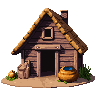
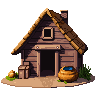
feat(pixelart): moulin (water_mills) en scène pixel-art + bâtiment de port réduit
- Moulin stade 0 : tour de pierre vue de PROFIL (sans porte) sur la berge et
  devant le liseré d'herbe + roue à aubes ANIMÉE (sprite tourné via ctx autour de
  son centroïde opaque → pas de wobble, sens réglé), moyeu centré sur la tour.
  Riverain comme le port : sprites transparents sur berge+fleuve naturels, ombre
  de contact exclue (water_mills), zéro procédural. Repli procédural conservé.
- Helpers blitPropRot + propPivot (centroïde de pixels opaques) dans cityEngineSprites.
- Port : bâtiment de quai réduit (~-22%), base ancrée → ponton/bateau inchangés.
- Nouveaux props mill-prop-house / mill-prop-wheel + provenance (fetchProps.mjs,
  astuce du prompt minimal pour éviter la porte que PixelLab rajoutait).

diff --git a/src/game/map/cityEngineSprites.js b/src/game/map/cityEngineSprites.js
@@ -134,7 +134,7 @@ function drawPixelForager(ctx, ox, oy, sw, sh, now, phase, hFrac) {
 // /pixelart/agents/ (cueilleur : -prop-tree/-basket ; entrepôt : granary-prop-silo/-sacks).
 const propImg = {};
 let propInit = false;
-const PROP_KEYS = ['forager-prop-tree', 'forager-prop-basket', 'granary-prop-silo', 'caravan-prop-sacks', 'market-prop-stall', 'guild-prop-lodge', 'field-prop-crop-green', 'field-prop-crop-gold', 'field-prop-fallow', 'port-prop-house', 'port-prop-pontoon'];
+const PROP_KEYS = ['forager-prop-tree', 'forager-prop-basket', 'granary-prop-silo', 'caravan-prop-sacks', 'market-prop-stall', 'guild-prop-lodge', 'field-prop-crop-green', 'field-prop-crop-gold', 'field-prop-fallow', 'port-prop-house', 'port-prop-pontoon', 'mill-prop-house', 'mill-prop-wheel'];
 function ensureProps() {
   if (propInit || typeof Image === 'undefined') return;
   propInit = true;
@@ -153,6 +153,43 @@ function blitProp(ctx, ox, oy, sw, sh, p, cx, cy, wFrac, hFrac) {
   const prev = ctx.imageSmoothingEnabled; ctx.imageSmoothingEnabled = false;
   ctx.drawImage(im, left, top, drawW, drawH);
   ctx.imageSmoothingEnabled = prev;
+}
+
+// Centre des pixels OPAQUES d'un prop (fraction 0..1 du sprite), calculé une fois et
+// mis en cache. Sert de PIVOT de rotation : une roue dont le moyeu n'est pas au centre
+// exact du PNG tournerait « de travers » (orbite) si on tournait autour du centre
+// géométrique — on tourne donc autour de ce centroïde (= le moyeu d'une roue symétrique).
+const propPivotCache = {};
+function propPivot(p) {
+  if (propPivotCache[p]) return propPivotCache[p];
+  const im = propImg[p];
+  if (!im || !(im.naturalWidth > 0) || typeof document === 'undefined') return { x: 0.5, y: 0.5 };
+  try {
+    const w = im.naturalWidth, h = im.naturalHeight;
+    const c = document.createElement('canvas'); c.width = w; c.height = h;
+    const g = c.getContext('2d'); g.drawImage(im, 0, 0);
+    const d = g.getImageData(0, 0, w, h).data;
+    let sx = 0, sy = 0, n = 0;
+    for (let y = 0; y < h; y++) for (let x = 0; x < w; x++) {
+      if (d[(y * w + x) * 4 + 3] > 40) { sx += x; sy += y; n++; }
+    }
+    const piv = n ? { x: (sx / n) / w, y: (sy / n) / h } : { x: 0.5, y: 0.5 };
+    propPivotCache[p] = piv; return piv;
+  } catch (e) { propPivotCache[p] = { x: 0.5, y: 0.5 }; return propPivotCache[p]; }
+}
+
+// Comme blitProp mais TOURNE le sprite d'un angle (rad) autour de son CENTROÏDE opaque,
+// placé en (cx,cy). Pour les pièces mécaniques qui tournent en continu (roue de moulin) :
+// on fait tourner UN sprite statique via ctx.rotate plutôt qu'une bande d'images.
+function blitPropRot(ctx, ox, oy, sw, sh, p, cx, cy, wFrac, hFrac, angle) {
+  const im = propImg[p]; if (!im) return false;
+  const drawW = sw * wFrac, drawH = sh * hFrac;
+  const piv = propPivot(p);
+  const prev = ctx.imageSmoothingEnabled; ctx.imageSmoothingEnabled = false;
+  ctx.save(); ctx.translate(ox + sw * cx, oy + sh * cy); ctx.rotate(angle);
+  ctx.drawImage(im, -drawW * piv.x, -drawH * piv.y, drawW, drawH); ctx.restore();
+  ctx.imageSmoothingEnabled = prev;
+  return true;
 }
 
 // ── Caravane : mulet bâté pixel (PixelLab, quadrupède) MENÉ par le marchand ───
@@ -2205,9 +2242,9 @@ function drawCityEngineSprite(context) {
     //    bâtiment vue de-face-de-haut sur la berge + bateau de l'ère dans le fleuve.
     //    AUCUN procédural, aucun fond peint, aucune modif moteur (cf. leçon du carré brun).
     if (stage === 0 && propReady('port-prop-house')) {
-      const bWc = Math.min(2.0, gw * 0.92), bhF = bWc / Math.max(1, gh);   // prop carré 96×96
+      const bWc = Math.min(1.5, gw * 0.72), bhF = bWc / Math.max(1, gh);   // bâtiment RÉDUIT (prop carré 96×96)
       const bwF = bWc / Math.max(1, gw);
-      blitProp(ctx, ox, oy, sw, sh, 'port-prop-house', 0.5, bhF * 0.5 + 0.03, bwF, bhF);
+      blitProp(ctx, ox, oy, sw, sh, 'port-prop-house', 0.5, 0.4 - bhF * 0.5, bwF, bhF);   // base ancrée ~0.4 (raccord ponton inchangé)
       // ponton de planches : de la base du bâtiment (berge) vers l'eau, le bateau s'amarre au bout
       blitProp(ctx, ox, oy, sw, sh, 'port-prop-pontoon', 0.5, 0.54, 0.82 / Math.max(1, gw), 1.7 / Math.max(1, gh));
       const vstage = band >= 7 ? 'cosmic' : ei >= 30 ? 'container' : ei >= 20 ? 'steam' : ei >= 10 ? 'sail' : 'raft';
@@ -2515,6 +2552,24 @@ function drawCityEngineSprite(context) {
     // d'eau et la roue/turbine y plonge. 4 stades d'ère (bois → pierre → brique →
     // hydro), le tier enrichissant chacun (fenêtres, fumée, lueur).
     const stage = ei < 10 ? 0 : ei < 20 ? 1 : ei < 30 ? 2 : 3;
+    // ── PIXEL-ART (stade 0) : remplace le moulin procédural par des SPRITES
+    //    TRANSPARENTS posés sur la tuile NATURELLE (berge+fleuve déjà rendus = base
+    //    nickel) : bâtiment de moulin sur la berge + ROUE À AUBES qui tourne en
+    //    plongeant dans le fleuve (sprite statique tourné via ctx, vitesse now/900 =
+    //    la roue procédurale). AUCUN procédural/fond peint/hack moteur (leçon du port).
+    if (stage === 0 && propReady('mill-prop-house')) {
+      // Tour-moulin (sprite vue de PROFIL) COLLÉE à l'eau : base au ras de la ligne d'eau.
+      const twW = 1.18 / Math.max(1, gw), twH = 1.85 / Math.max(1, gh);
+      const twCx = 0.6, twBaseCy = 0.54, twCy = twBaseCy - twH / 2;   // base recouvre le liseré d'herbe (tour DEVANT l'herbe)
+      blitProp(ctx, ox, oy, sw, sh, 'mill-prop-house', twCx, twCy, twW, twH);
+      // Roue COLLÉE au flanc gauche de la tour (léger chevauchement), bas dans l'eau.
+      if (propReady('mill-prop-wheel')) {
+        const wF = 1.2, wAng = -(now || 0) / 900;   // sens INVERSÉ
+        const wCx = twCx - twW * 0.12;              // MOYEU plus vers le CENTRE de la tour
+        blitPropRot(ctx, ox, oy, sw, sh, 'mill-prop-wheel', wCx, 0.5, wF / Math.max(1, gw), wF / Math.max(1, gh), wAng);
+      }
+      return true;
+    }
     const nF = parseFloat(litWarm.slice(litWarm.lastIndexOf(",") + 1)) || 0;
     const minWH = Math.min(sw, sh);
     // Volume (lumière en haut-gauche) : face DROITE à l'ombre + lisère clair en

diff --git a/src/game/map/engineSprites.js b/src/game/map/engineSprites.js
@@ -84,9 +84,9 @@ function drawEngineSpriteCore(t, x, y, w, h, now) {
   const ei = CM.layout?.counts?.eraIndex ?? 0;
   const px = (rx, ry, rw, rh, col) => { ctx.fillStyle = col; ctx.fillRect(ox + sw * rx, oy + sh * ry, sw * rw, sh * rh); };
   const strokeRect = (rx, ry, rw, rh, col) => { ctx.strokeStyle = col; ctx.lineWidth = Math.max(1, sw * 0.025); ctx.strokeRect(ox + sw * rx, oy + sh * ry, sw * rw, sh * rh); };
-  // Ombre de contact au sol — SAUF le port (riverain) : son emprise déborde sur le
-  // fleuve, l'ombre tomberait sur l'eau (les bateaux de rivière n'en ont pas non plus).
-  if (id !== "river_ports") {
+  // Ombre de contact au sol — SAUF les riverains (port, moulin) : leur emprise déborde
+  // sur le fleuve, l'ombre tomberait sur l'eau (les bateaux de rivière n'en ont pas non plus).
+  if (id !== "river_ports" && id !== "water_mills") {
     ctx.fillStyle = "rgba(0,0,0,0.26)";
     ctx.beginPath();
     ctx.ellipse(x + w * 0.5, y + h * 0.84, w * 0.42, h * 0.12, 0, 0, Math.PI * 2);